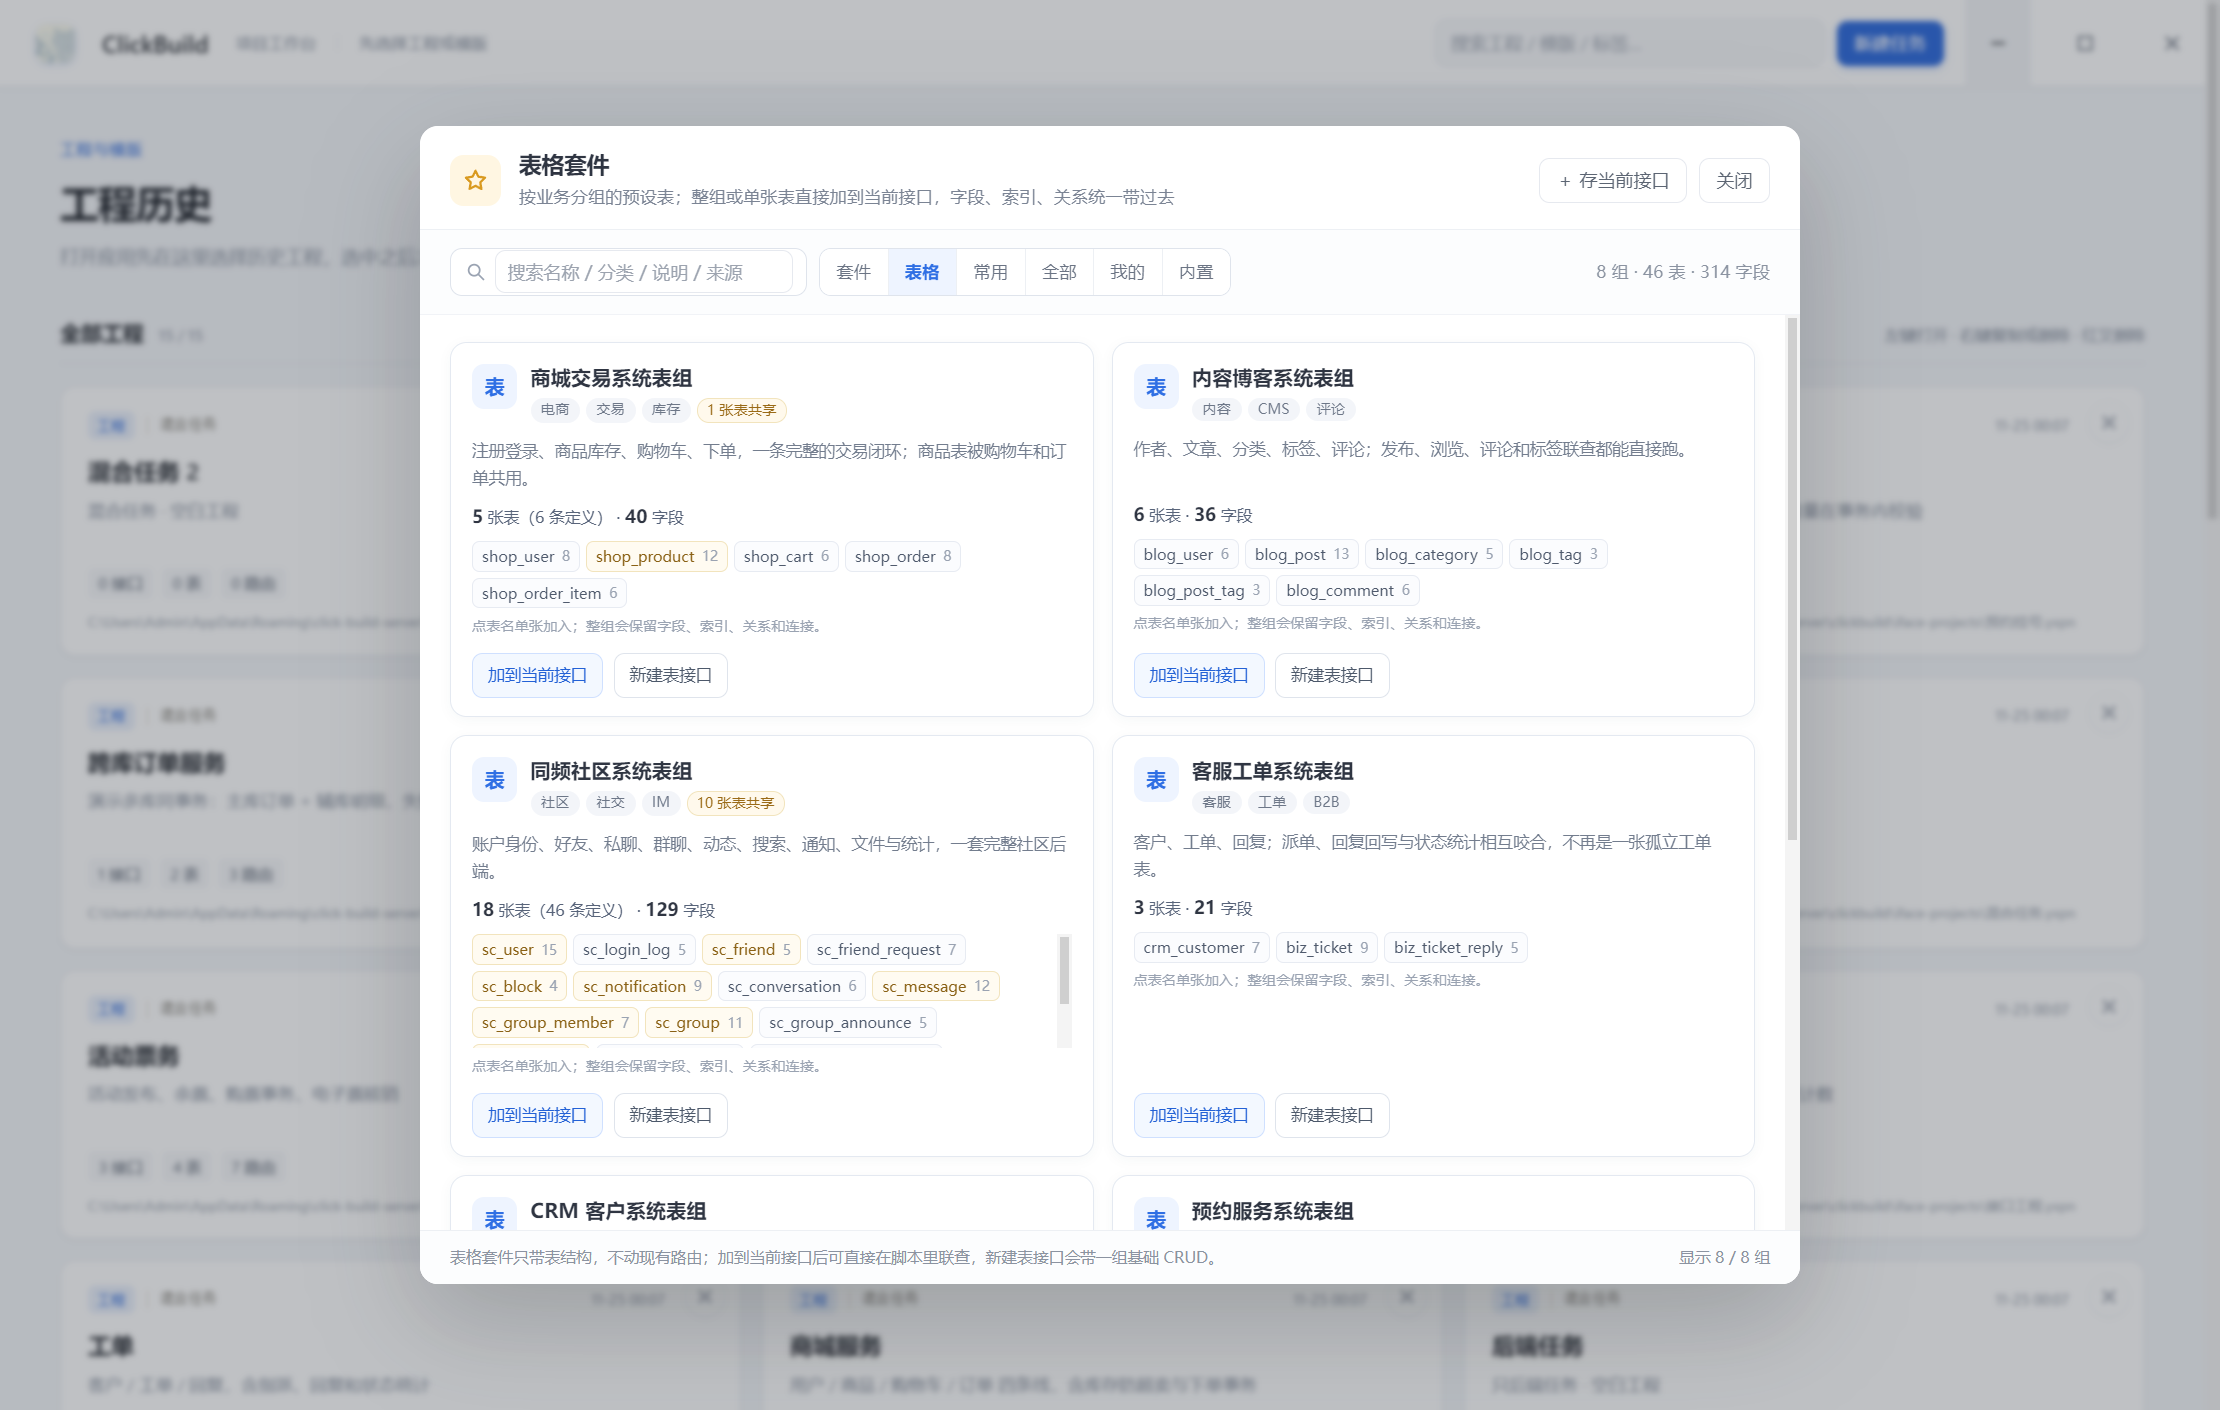
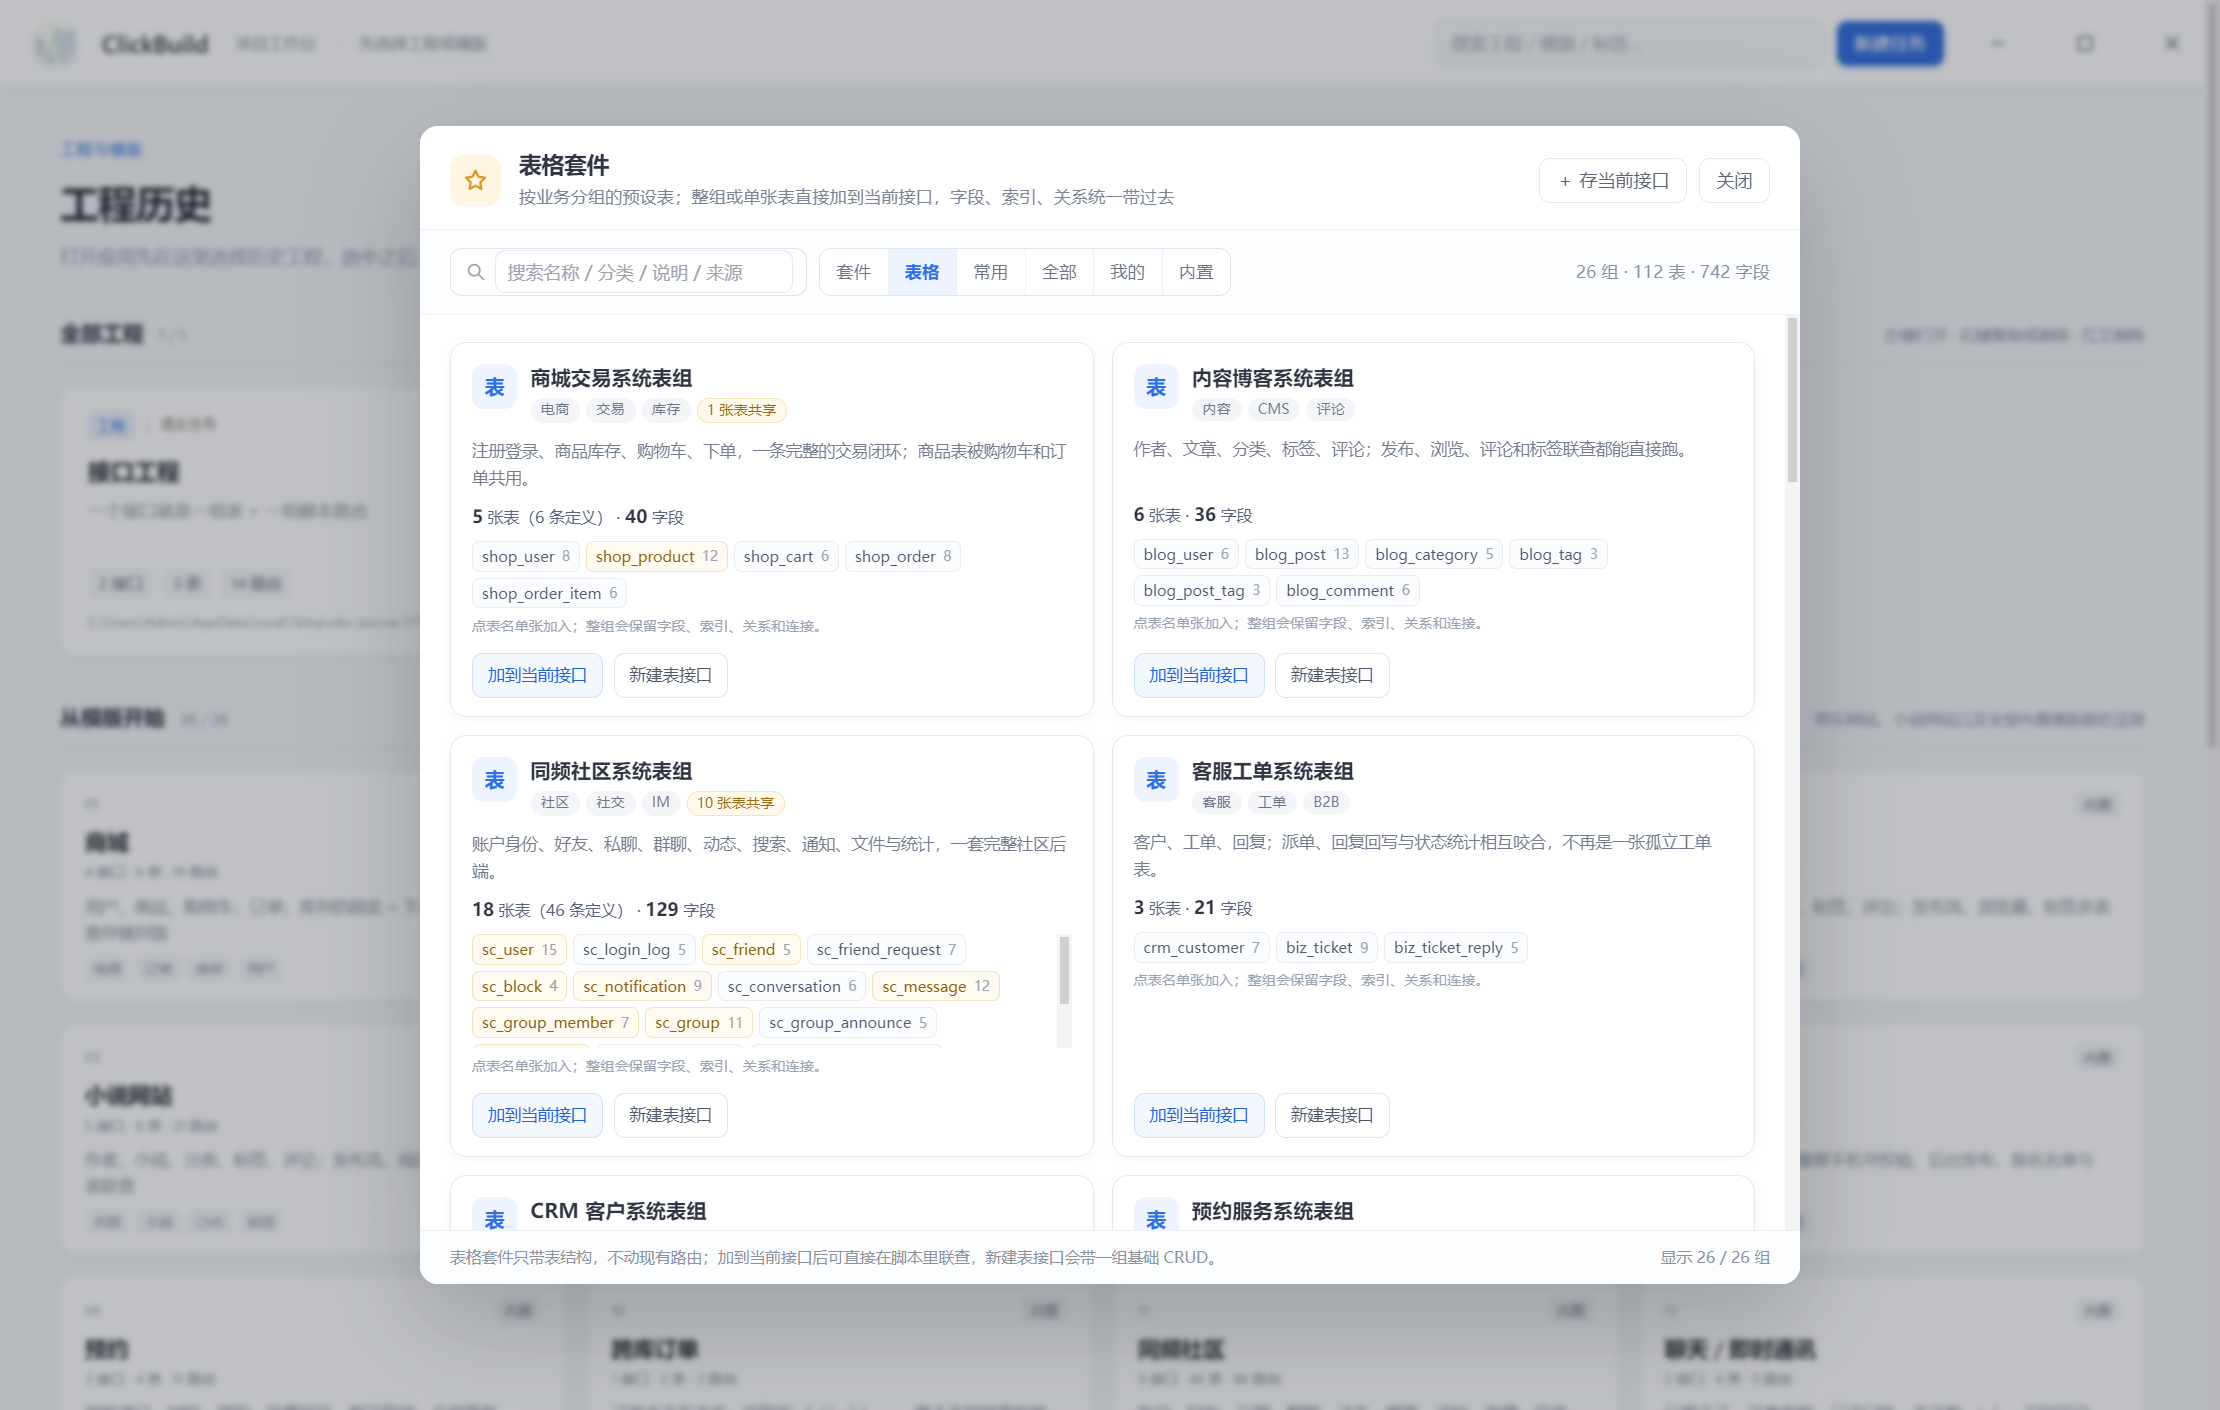
feat: 表格套件扩展到全部 26 套内置模版
1.1.75：26 组 / 112 张物理表 / 742 个字段；搜索覆盖字段名，新建表接口清理路径非法字符

diff --git a/renderer/wbench.js b/renderer/wbench.js
@@ -3770,7 +3770,7 @@ RETURN 200 { "user": $user };</pre></div>
         <div class="hb-card"><b>路由冲突</b><p>整套共用的根路由撞上现有工程时，给整套加业务前缀（如 /mall），不会把 /products 改成 /products-2。</p></div>
       </div>
       <div class="hb-h3">表格套件（1.1.74）</div>
-      <div class="hb-p">「套件」旁边的「表格」页签把 8 套业务里的物理表单独列出来：8 组、46 张表、77 条表定义、314 个字段。同一张表被多个接口引用时只列一次，共享表会标黄；字段、索引、关系、连接方式都保留。</div>
+      <div class="hb-p">「套件」旁边的「表格」页签把全部内置工程模版的物理表单独列出来：26 组、112 张表、155 条表定义、742 个字段；前 8 组是带完整接口闭环的业务套件，后面是视频、音乐、小说、餐饮、挂号、物流、报价等模版表组。同一张表被多个接口引用时只列一次，字段、索引和关系合并，共享表会标黄。</div>
       <div class="hb-grid">
         <div class="hb-card"><b>加到当前接口</b><p>整组表直接并进当前接口，现有路由不变；表名按全工程避重，关系 target 跟着表名重映射。</p></div>
         <div class="hb-card"><b>单张表加入</b><p>点卡片里的表名按钮，只加那一张；适合已有接口只缺一张关联表。</p></div>
@@ -4955,7 +4955,7 @@ async function showIfaceLibrary(opts) {
 
       if (isTables) {
         const shown = state.tableKits.filter((k) => {
-          const hay = [k.name, k.summary, (k.tags || []).join(' '), (k.tables || []).map((x) => x.name + ' ' + (x.comment || '')).join(' ')].join(' ').toLowerCase();
+          const hay = [k.name, k.summary, (k.tags || []).join(' '), (k.tables || []).map((x) => x.name + ' ' + (x.comment || '') + ' ' + (x.fieldNames || []).join(' ')).join(' ')].join(' ').toLowerCase();
           return !q || hay.includes(q);
         });
         statsEl.textContent = `${state.tableKits.length} 组 · ${state.tableKits.reduce((n, k) => n + k.counts.tables, 0)} 表 · ${state.tableKits.reduce((n, k) => n + k.counts.fields, 0)} 字段`;
@@ -5056,7 +5056,7 @@ async function showIfaceLibrary(opts) {
         const kit = state.tableKits.find((x) => x.id === id);
         project = await api.seed();
         project.taskType = 'backend';
-        project.name = uniqueProjectName(`${kit ? String(kit.name).replace(/系统表组$|表组$/g, '') : '数据表'}工程`);
+        project.name = uniqueProjectName(`${kit ? String(kit.name).replace(/系统表组$|表组$/g, '').replace(/[\\/:*?"<>|]/g, ' ').replace(/\s+/g, ' ').trim() : '数据表'}工程`);
         project.description = '预置表格套件 · 数据表接口';
         project.interfaces = [];
         project.functions = [];

diff --git a/app/iface/iface-library.js b/app/iface/iface-library.js
@@ -62,6 +62,23 @@ const KITS = [
   },
 ];
 
+// 表格套件默认覆盖全部内置工程模版：8 套接口套件优先排在最前，
+// 其余模版按名称表组补齐，避免“预设表”只覆盖少数业务。
+const TABLE_KITS = KITS.concat(
+  templates.list()
+    .filter((x) => x.kind === 'builtin' && !KITS.some((k) => k.templateId === x.id))
+    .filter((x) => x.counts && x.counts.tables > 0)
+    .map((x) => ({
+      key: String(x.id || '').replace(/^builtin:/, ''),
+      templateId: x.id,
+      name: x.name,
+      summary: x.description || '',
+      tags: x.tags || [],
+      useCases: [],
+    }))
+    .filter((x) => x.key)
+);
+
 function dir() {
   const d = path.join(store.root(), DIR);
   fs.mkdirSync(d, { recursive: true });
@@ -224,7 +241,7 @@ function tableKitSource(def) {
 
 function tableKitDef(id) {
   const key = String(id || '').replace(/^tablekit:/, '');
-  return KITS.find((k) => k.key === key) || null;
+  return TABLE_KITS.find((k) => k.key === key) || null;
 }
 
 function tableKitEntry(def, meta) {
@@ -263,7 +280,7 @@ function tableKitEntry(def, meta) {
 
 function tableKits() {
   const meta = readMeta();
-  return KITS.map((def) => {
+  return TABLE_KITS.map((def) => {
     try { return tableKitEntry(def, meta); } catch (e) { return null; }
   }).filter(Boolean);
 }
@@ -495,6 +512,13 @@ function uniqueTableKey(base, used) {
   while (used.has(key)) key = `${String(base || 'tbl').replace(/[^A-Za-z0-9_]/g, '_')}_${i++}`;
   used.add(key);
   return key;
+}
+
+function tableKitLabel(name) {
+  return String(name || '数据表')
+    .replace(/[\\/:*?"<>|]/g, ' ')
+    .replace(/\s+/g, ' ')
+    .trim() || '数据表';
 }
 
 function uniqueRoutePath(base, method, used, prefix) {
@@ -752,7 +776,7 @@ function insertTableKit(project, id, opts) {
       catIds.add(cid);
     }
     const first = plan.find((x) => !x.skip);
-    const name = uniqueIfaceName(`${def.name.replace(/系统$/, '')}表组`, ifaceNames);
+    const name = uniqueIfaceName(`${tableKitLabel(def.name.replace(/系统$/, ''))}表组`, ifaceNames);
     // 表组接口保留一组基础 CRUD 路由，第一张表仍是 main；这样表接进来就能直接查。
     target = spec.newIface(name, cat.id, {
       scenario: 'blank',

diff --git a/tools/test-kits.js b/tools/test-kits.js
@@ -122,14 +122,23 @@ function main() {
 
   console.log('\n表格套件');
   const tks = lib.tableKits();
-  ok(tks.length === 8, '表格套件 8 组', String(tks.length));
-  ok(tks.reduce((n, k) => n + k.counts.tables, 0) === 46, '8 组共 46 张物理表');
-  ok(tks.reduce((n, k) => n + k.counts.tableDefs, 0) === 77, '8 组共 77 条表定义');
-  ok(tks.reduce((n, k) => n + k.counts.fields, 0) === 314, '8 组共 314 个字段');
+  ok(tks.length === 26, '表格套件覆盖全部 26 套内置模版', String(tks.length));
+  ok(tks.reduce((n, k) => n + k.counts.tables, 0) === 112, '26 组共 112 张物理表');
+  ok(tks.reduce((n, k) => n + k.counts.tableDefs, 0) === 155, '26 组共 155 条表定义');
+  ok(tks.reduce((n, k) => n + k.counts.fields, 0) === 742, '26 组共 742 个字段');
+  ok(new Set(tks.map((k) => k.id)).size === tks.length, '表格套件 id 不重复');
   const tmall = tks.find((x) => x.id === 'tablekit:mall');
   ok(tmall && tmall.counts.tables === 5 && tmall.counts.fields === 40 && tmall.counts.sharedTables === 1, '商城表组 5 表 / 40 字段 / 1 张共享');
   const tsocial = tks.find((x) => x.id === 'tablekit:social');
   ok(tsocial && tsocial.counts.tables === 18 && tsocial.counts.tableDefs === 46, '社区表组 46 条定义归并为 18 张表', `${tsocial && tsocial.counts.tableDefs} -> ${tsocial && tsocial.counts.tables}`);
+  const tvideo = tks.find((x) => x.id === 'tablekit:video');
+  ok(tvideo && tvideo.counts.tables === 5 && tvideo.counts.fields === 31, '视频站等非八大套件也进入表组', tvideo && `${tvideo.counts.tables}/${tvideo.counts.fields}`);
+
+  for (const tk of tks) {
+    const r = lib.insertTableKit(emptyProject(tk.name), tk.id);
+    const v = spec.validateProject(r.project);
+    ok(r.added.length === tk.counts.tables && v.ok, `表组 ${tk.name} 全量接入并校验通过`, `${r.added.length}/${tk.counts.tables}`);
+  }
 
   const tEmpty = emptyProject('空工程接表');
   const tNew = lib.insertTableKit(tEmpty, 'tablekit:mall');

diff --git a/tools/ui-smoke.js b/tools/ui-smoke.js
@@ -118,7 +118,7 @@ const t = (name, cond, extra) => { if (cond) { ok++; console.log('  ✓ ' + name
   await val(`showIfaceLibrary({view:'tables'})`);
   await wait(500);
   const tableView = JSON.parse(await val(`(()=>{const m=document.querySelector('#libTitle');const cards=document.querySelectorAll('[data-table-kit-card]');const mall=document.querySelector('[data-table-kit-card="tablekit:mall"]');return JSON.stringify({title:m&&m.textContent,cards:cards.length,mall:mall?mall.innerText:'',chips:mall?mall.querySelectorAll('[data-table-add]').length:0,buttons:mall?mall.querySelectorAll('[data-table-use],[data-table-new]').length:0})})()`));
-  t('接口库有表格视图与 8 组预设', tableView.title === '表格套件' && tableView.cards === 8, JSON.stringify(tableView).slice(0, 180));
+  t('接口库有表格视图与 26 组预设', tableView.title === '表格套件' && tableView.cards === 26, JSON.stringify(tableView).slice(0, 180));
   t('商城表组列出 5 张表 / 40 字段与两个动作', /5 张表/.test(tableView.mall) && /40 字段/.test(tableView.mall) && tableView.chips === 5 && tableView.buttons === 2, tableView.mall.slice(0, 240));
   const tableN0 = await val(`S.project.interfaces.length`);
   await val(`document.querySelector('[data-table-new="tablekit:blog"]').click()`);
